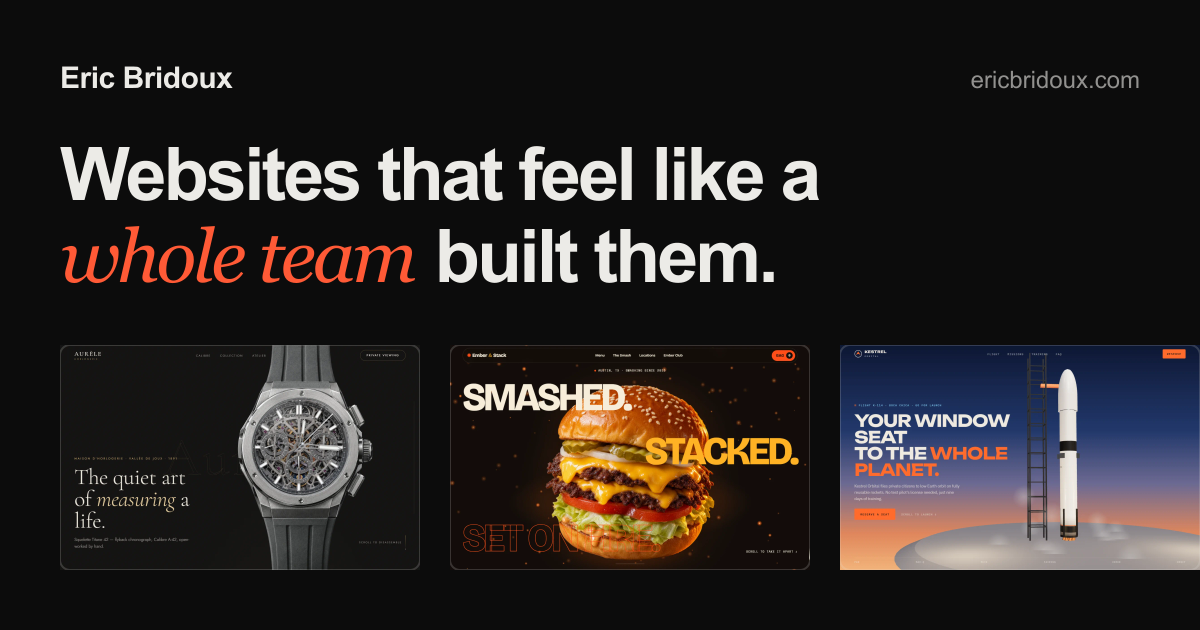
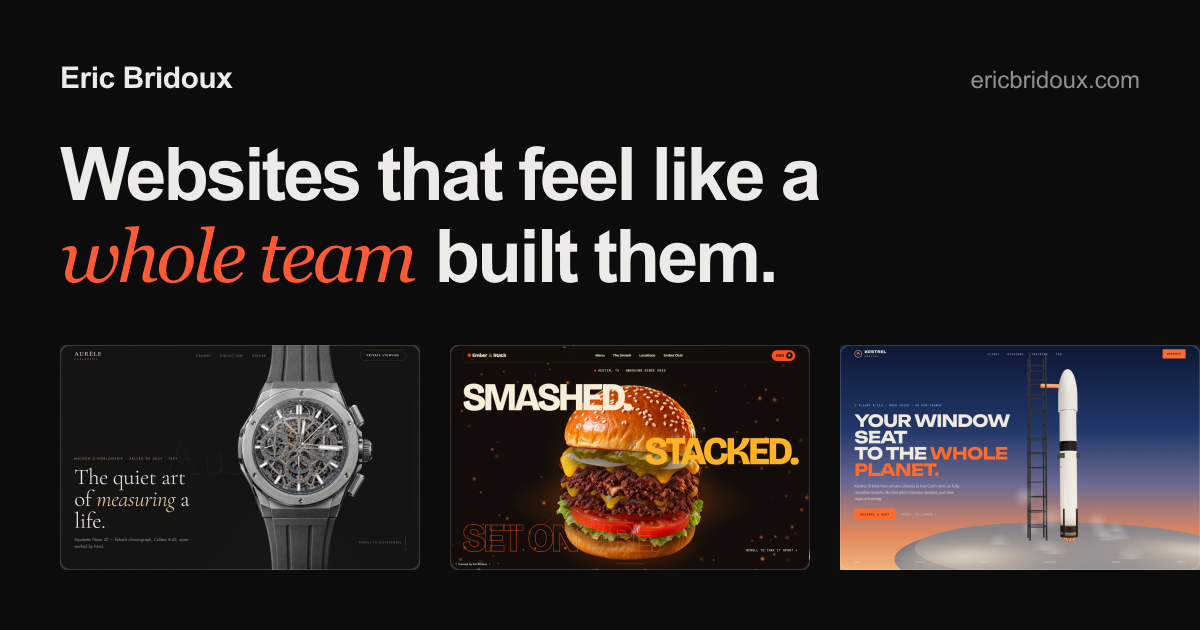
feat(ember): rebuild the burger animation from the new 11-layer photo set
- New trimmed WebP layers in public/img/stack (top bun, pickles, onions,
  upper/lower cheese and patty, tomato, lettuce, sauce, bottom bun)
- Stack positions live in src/data/stackLayers.json, tuned with
  tools/burger-stack.cjs
- The hero is now the assembled layers themselves, so the start and end
  frames match the exploded view exactly; float and intro motion moved
  from the old photo to the stack
- Caption focus updated for 11 layers; final framing raised clear of the
  price line
- Portfolio Ember screenshots and social preview image refreshed
- tools: stack-frames.mjs contact sheet

Changed region(s): [[0.4317, 0.6032, 0.6167, 0.9048], [0.6167, 0.8746, 0.6475, 0.9048], [0.37, 0.8746, 0.4008, 0.9048]]

diff --git a/sites/ember-stack/src/components/BurgerScroller.tsx b/sites/ember-stack/src/components/BurgerScroller.tsx
@@ -1,6 +1,7 @@
 import { useEffect, useRef } from 'react'
 import { ScrollTrigger, prefersReducedMotion } from '../lib/motion'
 import { Embers } from './Embers'
+import STACK from '../data/stackLayers.json'
 
 const CAPTIONS = [
   { tag: 'Baked daily · 4 AM', title: 'The Crown', body: 'Potato brioche from Hearth & Crumb, three blocks away. We brush it with beef tallow and toast it face-down until it crackles.' },
@@ -14,26 +15,20 @@ const CAPTIONS = [
 /** Caption windows: each focuses one layer index (top → bottom). */
 const CAPTION_START = 0.26
 const CAPTION_SPAN = 0.075
-const CAPTION_FOCUS = [0, 1, 3.5, 6.5, 8, 9]
+const CAPTION_FOCUS = [0, 1.5, 4.5, 7.5, 9, 10]
+
+interface Layer { key: string; src: string; w: number; y: number; drift: number }
 
 /**
- * Photographic ingredient layers, top → bottom. Sizes and assembled positions are in
- * units of the burger's width (W), measured against the hero photograph.
+ * Photographic ingredient layers, top → bottom (tuned with tools/burger-stack.cjs). Widths and
+ * assembled centres are in units of the burger's width (W); together they form the hero burger.
  */
-const LAYERS = [
-  { key: 'bun-top', src: '/img/layers/bun-top.webp', w: 0.9, y: -0.31, drift: -0.5 },
-  { key: 'pickles', src: '/img/layers/pickles.webp', w: 0.86, y: -0.13, drift: 0.6 },
-  { key: 'cheese-a', src: '/img/layers/cheese.webp', w: 0.96, y: -0.04, drift: -0.35 },
-  { key: 'patty-a', src: '/img/layers/patty.webp', w: 1, y: 0.0, drift: 0.4 },
-  { key: 'cheese-b', src: '/img/layers/cheese.webp', w: 0.94, y: 0.09, drift: 0.3, flip: true },
-  { key: 'patty-b', src: '/img/layers/patty.webp', w: 0.99, y: 0.13, drift: -0.45, flip: true },
-  { key: 'tomato', src: '/img/layers/tomato.webp', w: 0.8, y: 0.21, drift: 0.5 },
-  { key: 'lettuce', src: '/img/layers/lettuce.webp', w: 0.98, y: 0.27, drift: -0.4 },
-  { key: 'sauce', src: '/img/layers/sauce.webp', w: 0.8, y: 0.34, drift: 0.35 },
-  { key: 'bun-bottom', src: '/img/layers/bun-bottom.webp', w: 0.86, y: 0.41, drift: -0.2 },
-] as const
+const LAYERS: Layer[] = STACK
 
-const GAP = 0.3 // exploded spacing, in W
+/** Assembled burger: height and centre offset in W, so it can be fitted to the hero box. */
+const ASSEMBLED = { height: 1.23, centre: -0.045 }
+
+const GAP = 0.27 // exploded spacing, in W
 const MID = (LAYERS.length - 1) / 2
 
 const clamp01 = (v: number) => Math.min(1, Math.max(0, v))
@@ -69,6 +64,7 @@ export function BurgerScroller({ onOrder }: Props) {
     let current = 0
     let raf = 0
     let last = performance.now()
+    const born = last
 
     const onUpdate = (p: number) => {
       target = p
@@ -92,7 +88,10 @@ export function BurgerScroller({ onOrder }: Props) {
       const vw = window.innerWidth
       const vh = window.innerHeight
       const wide = vw / vh > 1.1
-      const W = photo.clientWidth // the trimmed photo is exactly one burger wide
+      // The hero box (.stack__photo) sets the burger's size; fit the assembled stack's height into it
+      const box = photo.clientWidth
+      const W = (box * 1.04) / ASSEMBLED.height
+      const intro = reduce ? 1 : easeOutBack(clamp01((now - born) / 1200))
 
       // Ingredients: apart top-first (0.06→0.22), then restack bottom-first with a bounce (0.72→0.9)
       const apart = smooth(0.06, 0.22, p)
@@ -107,8 +106,7 @@ export function BurgerScroller({ onOrder }: Props) {
         const x = L.drift * e * W * (wide ? 0.22 : 0.08)
         const rot = L.drift * 7 * e + Math.sin(t * 0.9 + i) * 1.6 * e
         el.style.width = `${L.w * W}px`
-        const mirror = 'flip' in L && L.flip ? ' scaleX(-1)' : ''
-        el.style.transform = `translate(-50%, -50%) translate3d(${x}px, ${y}px, 0) rotate(${rot}deg)${mirror}`
+        el.style.transform = `translate(-50%, -50%) translate3d(${x}px, ${y}px, 0) rotate(${rot}deg)`
       })
 
       // Camera: hero → overview → per-ingredient focus → overview → final
@@ -116,10 +114,11 @@ export function BurgerScroller({ onOrder }: Props) {
       const overviewScale = Math.min(1, (vh * 0.76) / span)
       const focusScale = wide ? 1.02 : 0.9
       const fy = explodedY(focusIndex(p)) * W
-      const heroCam = { s: 1, x: 0, y: 0 }
+      const bob = Math.sin(t * 1.05) * 0.008 * W * (1 - apart)
+      const heroCam = { s: 0.9 + 0.1 * intro, x: 0, y: -ASSEMBLED.centre * W + (1 - intro) * 0.08 * W + bob }
       const overview = { s: overviewScale, x: 0, y: -vh * 0.07 }
       const focus = { s: focusScale, x: wide ? vw * 0.17 : 0, y: -fy * focusScale + (wide ? 0 : -vh * 0.08) }
-      const finalCam = { s: 0.8, x: 0, y: -vh * 0.1 }
+      const finalCam = { s: 0.8, x: 0, y: -vh * 0.13 - ASSEMBLED.centre * W * 0.8 + bob }
       const mix = (a: typeof heroCam, b: typeof heroCam, k: number) => ({ s: lerp(a.s, b.s, k), x: lerp(a.x, b.x, k), y: lerp(a.y, b.y, k) })
       let cam = heroCam
       if (p < 0.22) cam = mix(heroCam, overview, smooth(0.05, 0.17, p))
@@ -127,13 +126,12 @@ export function BurgerScroller({ onOrder }: Props) {
       else cam = mix(focus, finalCam, smooth(0.72, 0.79, p)) // restack straight into the final framing
       column.style.transform = `translate3d(${cam.x}px, ${cam.y}px, 0) scale(${cam.s})`
 
-      // The whole photograph stands in for the assembled burger at the start and the end
-      const photoIn = Math.max(1 - smooth(0.01, 0.05, p), smooth(0.86, 0.93, p))
-      const heroShrink = 1 - smooth(0.01, 0.05, p) * 0.04
-      const photoCam = p > 0.5 ? finalCam : { s: heroShrink, x: 0, y: 0 }
-      photo.style.opacity = String(photoIn)
-      photo.style.transform = `translate(-50%, -50%) translate3d(${photoCam.x}px, ${photoCam.y}px, 0) scale(${photoCam.s})`
-      column.style.opacity = String(1 - photoIn)
+      // Warm glow under the assembled burger at the start and the end
+      const glow = Math.max(1 - smooth(0.01, 0.06, p), smooth(0.86, 0.93, p))
+      const glowCam = p > 0.5 ? finalCam : heroCam
+      photo.style.opacity = String(glow * intro)
+      photo.style.transform = `translate(-50%, -50%) translate3d(${glowCam.x}px, ${glowCam.y + ASSEMBLED.centre * W * glowCam.s}px, 0) scale(${glowCam.s})`
+      column.style.opacity = String(Math.min(1, intro * 1.5))
     }
     raf = requestAnimationFrame(tick)
 
@@ -146,7 +144,7 @@ export function BurgerScroller({ onOrder }: Props) {
         <Embers className="stack__embers" />
         <div className="stack__glow" aria-hidden="true" />
 
-        <div className="stack__column" ref={columnRef} aria-hidden="true">
+        <div className="stack__column" ref={columnRef} role="img" aria-label="The Ember Double: two smashed patties with American cheese, pickles, onion, tomato, lettuce and Ember sauce on a sesame brioche bun">
           {LAYERS.map((L, i) => (
             <img
               key={L.key}
@@ -154,14 +152,14 @@ export function BurgerScroller({ onOrder }: Props) {
               className="ingredient"
               src={L.src}
               alt=""
+              decoding="async"
+              fetchPriority={i === 0 ? 'high' : 'auto'}
               style={{ zIndex: LAYERS.length - i }}
             />
           ))}
         </div>
 
-        <div className="stack__photo" ref={photoRef}>
-          <img src="/img/hero-burger.webp" alt="The Ember Double: two smashed patties, American cheese, pickles, onion, tomato and lettuce on a sesame brioche bun" width={1400} height={1451} fetchPriority="high" />
-        </div>
+        <div className="stack__photo" ref={photoRef} aria-hidden="true" />
 
         <div className="hero">
           <p className="hero__kicker"><span className="dot" /> Austin, TX · Smashing since 2019</p>

diff --git a/sites/ember-stack/src/styles.css b/sites/ember-stack/src/styles.css
@@ -68,14 +68,11 @@ button { font: inherit; color: inherit; }
 .stack__glow { position: absolute; left: 50%; top: 70%; width: min(70vw, 110vh); height: 34vh; transform: translate(-50%, -50%); border-radius: 50%; background: radial-gradient(ellipse, rgba(255, 110, 30, 0.34), rgba(255, 60, 0, 0) 70%); filter: blur(10px); z-index: 1; pointer-events: none; }
 @media (max-width: 700px) { .stack__column { top: 53%; } }
 .stack__photo {
-  position: absolute; left: 50%; top: 57%; z-index: 2; width: min(47vw, 82vh); aspect-ratio: 1400 / 1451;
+  position: absolute; left: 50%; top: 57%; z-index: 1; width: min(47vw, 82vh); aspect-ratio: 1400 / 1451; /* sizing box + glow for the assembled burger */
   transform: translate(-50%, -50%); will-change: transform, opacity;
   pointer-events: none;
 }
 .stack__photo::before { content: ''; position: absolute; left: 8%; right: 8%; bottom: -6%; height: 30%; border-radius: 50%; background: radial-gradient(ellipse, rgba(255, 110, 30, 0.55), rgba(255, 60, 0, 0) 70%); filter: blur(18px); }
-.stack__photo img { position: relative; width: 100%; height: 100%; object-fit: contain; filter: drop-shadow(0 30px 40px rgba(0, 0, 0, 0.55)) drop-shadow(0 0 60px rgba(255, 110, 30, 0.18)); animation: hover-burger 6s ease-in-out infinite, burger-in 1.2s var(--bounce) both 0.2s; }
-@keyframes hover-burger { 50% { transform: translateY(-1.4%) rotate(-0.6deg); } }
-@keyframes burger-in { from { opacity: 0; transform: translateY(8%) scale(0.9); } }
 @media (max-width: 700px) { .stack__photo { width: min(98vw, 64vh); top: 53%; } }
 
 .hero { position: absolute; inset: 0; z-index: 3; pointer-events: none; opacity: clamp(0, calc(1 - var(--p) * 12), 1); }
